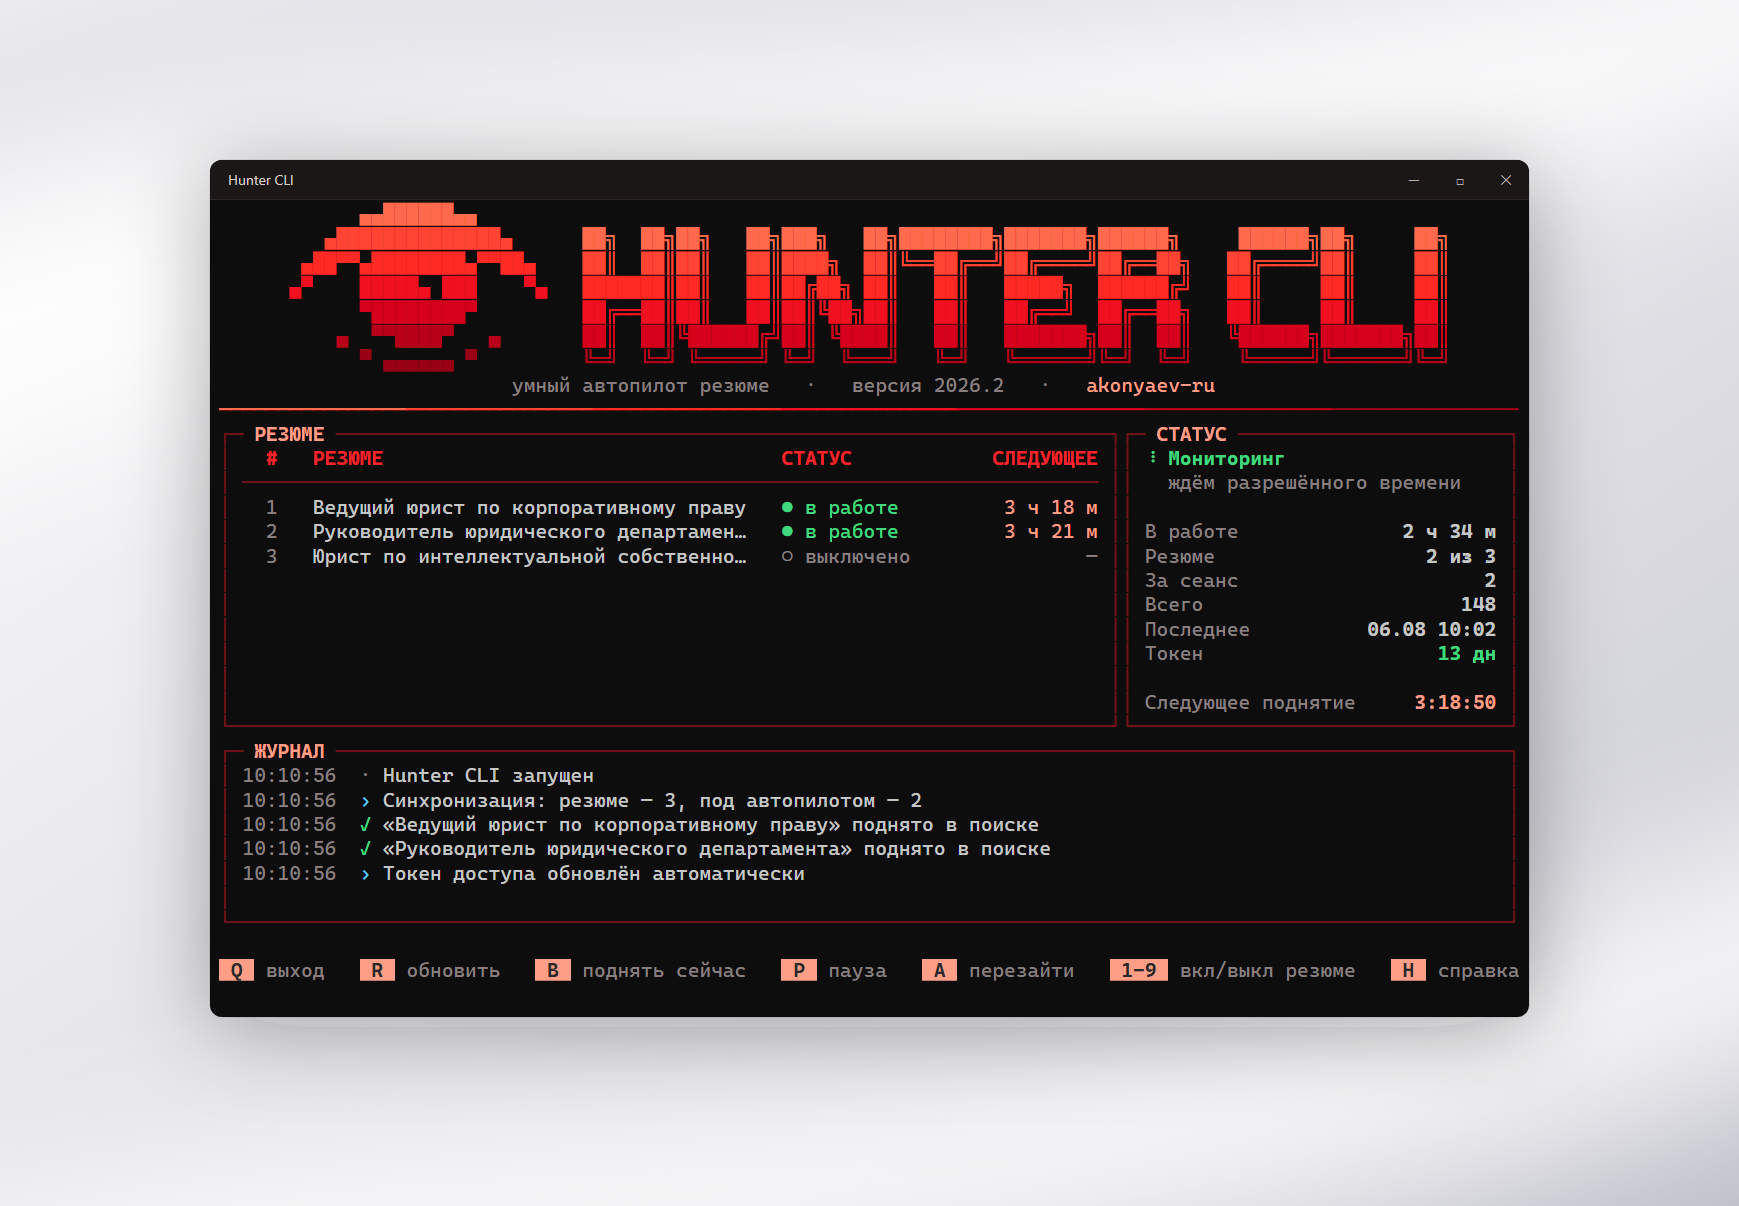
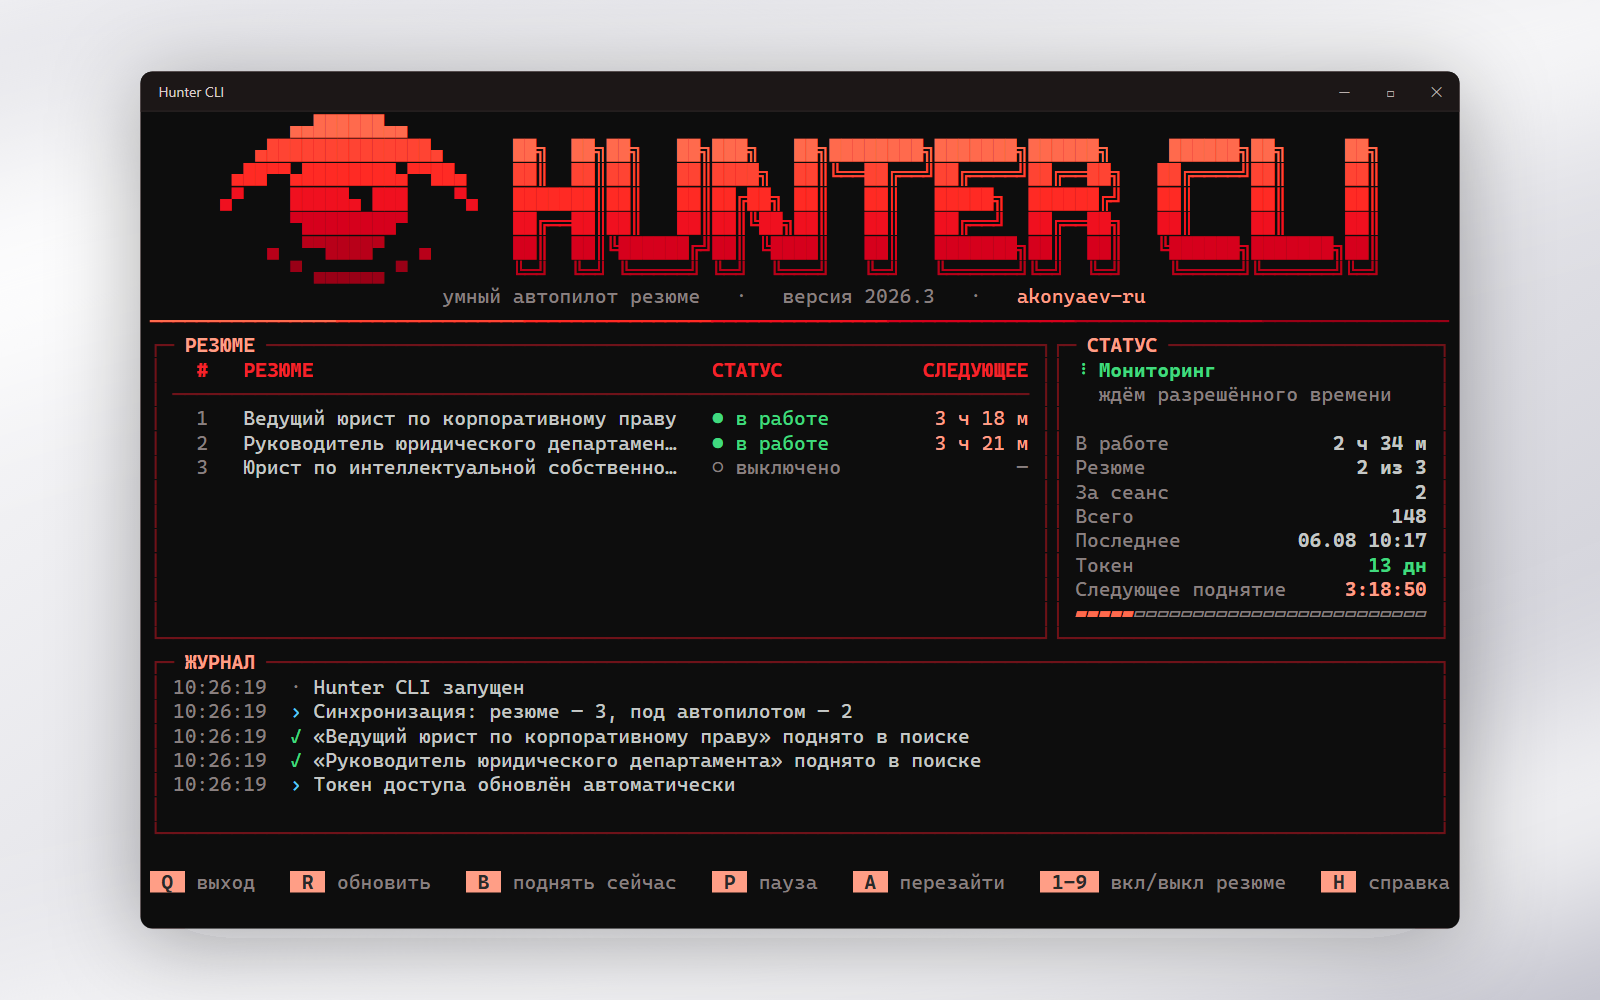
release: 2026.3
Размер иллюстрации в README приведён к 1600x1000. Холст теперь задан
константой, а поля вычисляются из него: размер не будет уплывать при
правках интерфейса, а при нехватке места генератор остановится с
понятным сообщением, а не молча обрежет окно.

По дороге исправлен просчёт в панели статуса. Ей передавалась высота без
учёта строк подсказки и горячих клавиш, поэтому у обратного отсчёта
обрезалась полоса прогресса, оставляя висеть одну подпись. Теперь строки
считаются честно, и при нехватке места панель сама отказывается от
пустой строки-разделителя вместо того, чтобы терять содержимое.

diff --git a/tools/make_preview.py b/tools/make_preview.py
@@ -48,12 +48,16 @@ from huntercli.ui.theme import THEME
 
 #: Размер терминала в символах. Подобран так, чтобы поместился полный логотип
 #: (74 колонки) и осталось место на таблицу с журналом.
-#: Высота не меньше 30 строк: ниже этого дашборд прячет логотип и рисует
-#: сжатую шапку — для картинки в README нужен полный вид.
+#: Размер картинки фиксирован. Ширина и высота окна из него вычитаются, а не
+#: наоборот: так размер не «уплывает» при правках интерфейса.
+CANVAS_W, CANVAS_H = 1600, 1000
+
+#: Размер терминала подобран под этот холст. Ограничения снизу: от 103 колонок
+#: рядом с надписью помещается значок, от 32 строк панель статуса показывает
+#: обратный отсчёт, а названия резюме перестают обрезаться. Больше брать
+#: некуда: окно должно оставить поля на холсте.
 COLUMNS, ROWS = 112, 32
 
-#: Поля вокруг окна: окно должно «лежать» на фоне, а не упираться в края.
-MARGIN_X, MARGIN_TOP, MARGIN_BOTTOM = 210, 160, 190
 CORNER = 12
 
 #: Запас снизу. Rich оставляет под содержимым всего 8 px (сверху — 40 px под
@@ -172,12 +176,14 @@ def render_terminal() -> tuple[str, float, float]:
 
 
 def canvas_size(inner_w: float, inner_h: float) -> tuple[int, int]:
-    """Размер картинки. Считается здесь и только здесь: если растеризовать
-    по другой формуле, край изображения окажется обрезанным."""
-    return (
-        int(inner_w + MARGIN_X * 2),
-        int(inner_h + BOTTOM_PAD + MARGIN_TOP + MARGIN_BOTTOM),
-    )
+    """Размер картинки. Фиксирован, но проверяем, что окно в него влезает."""
+    win_w, win_h = inner_w, inner_h + BOTTOM_PAD
+    if win_w > CANVAS_W - 80 or win_h > CANVAS_H - 60:
+        raise RuntimeError(
+            f"окно {win_w:.0f}x{win_h:.0f} не помещается в холст "
+            f"{CANVAS_W}x{CANVAS_H}: уменьшите COLUMNS/ROWS"
+        )
+    return CANVAS_W, CANVAS_H
 
 
 def silk(canvas_w: float, canvas_h: float) -> str:
@@ -217,7 +223,7 @@ def compose(terminal: str, inner_w: float, inner_h: float) -> str:
     """Обернуть терминал в окно и положить на фон."""
     win_w, win_h = inner_w, inner_h + BOTTOM_PAD
     canvas_w, canvas_h = canvas_size(inner_w, inner_h)
-    win_x, win_y = MARGIN_X, MARGIN_TOP
+    win_x, win_y = (canvas_w - win_w) / 2, (canvas_h - win_h) / 2
     waves = silk(canvas_w, canvas_h)
 
     # Заголовок окна занимает верхнюю полосу: Rich уже оставил под неё отступ

diff --git a/huntercli/ui/dashboard.py b/huntercli/ui/dashboard.py
@@ -235,6 +235,7 @@ class Dashboard:
     def _status_panel(self, snap: Snapshot, height: int, width: int) -> RenderableType:
         inner = max(8, width - 4)
         head = self._phase_head(snap, inner)
+        head_rows = 2 if snap.detail else 1
 
         grid = Table.grid(padding=(0, 1), expand=True)
         grid.add_column(style=MUTED, no_wrap=True)
@@ -266,9 +267,16 @@ class Dashboard:
 
         parts: list[RenderableType] = [head, Text(), grid]
 
+        # Считаем строки честно: панель обрезает молча, и обратный отсчёт
+        # рискует потерять полосу прогресса, оставив висеть одну подпись.
+        budget = max(3, height - 2)          # минус рамка панели
+        used = head_rows + 1 + grid.row_count
         countdown = self._countdown(snap, inner)
-        if countdown is not None and height >= 12:
-            parts.extend([Text(), countdown])
+        if countdown is not None:
+            if used + 3 <= budget:           # пустая строка плюс две строки
+                parts.extend([Text(), countdown])
+            elif used + 2 <= budget:         # впритык, без пустой строки
+                parts.append(countdown)
 
         hot = snap.phase in (Phase.BUMPING, Phase.AUTH)
         return _panel(Group(*parts), "СТАТУС", hot=hot)
@@ -401,6 +409,10 @@ class Dashboard:
         log_size = 10 if height >= 34 else (8 if height >= 28 else 6)
         wide = width >= 92
 
+        # Сколько строк реально достанется телу: панели считают по этому
+        # числу, и ошибиться нельзя — лишнее они обрежут молча.
+        body_height = max(3, height - header_size - log_size - 2)
+
         root = Layout(name="root")
         root.split_column(
             Layout(name="header", size=header_size),
@@ -413,7 +425,7 @@ class Dashboard:
         root["header"].update(self._header(snap, width, tall_header))
 
         if self.show_help:
-            root["body"].update(self._help_panel(height - header_size - log_size - 2))
+            root["body"].update(self._help_panel(body_height))
         elif wide:
             side_width = 34 if width >= 108 else 30
             root["body"].split_row(
@@ -424,7 +436,7 @@ class Dashboard:
                 _panel(self._resume_table(snap, width - side_width - 4), "РЕЗЮМЕ")
             )
             root["body"]["side"].update(
-                self._status_panel(snap, height - header_size - log_size, side_width)
+                self._status_panel(snap, body_height, side_width)
             )
         else:
             root["body"].split_column(

diff --git a/huntercli/__init__.py b/huntercli/__init__.py
@@ -11,7 +11,7 @@ Copyright (c) 2026 Алексей Коняев.
 import sys
 
 #: Календарная нумерация: год и порядковый выпуск внутри года.
-__version__ = "2026.2"
+__version__ = "2026.3"
 
 APP_NAME = "Hunter CLI"
 
